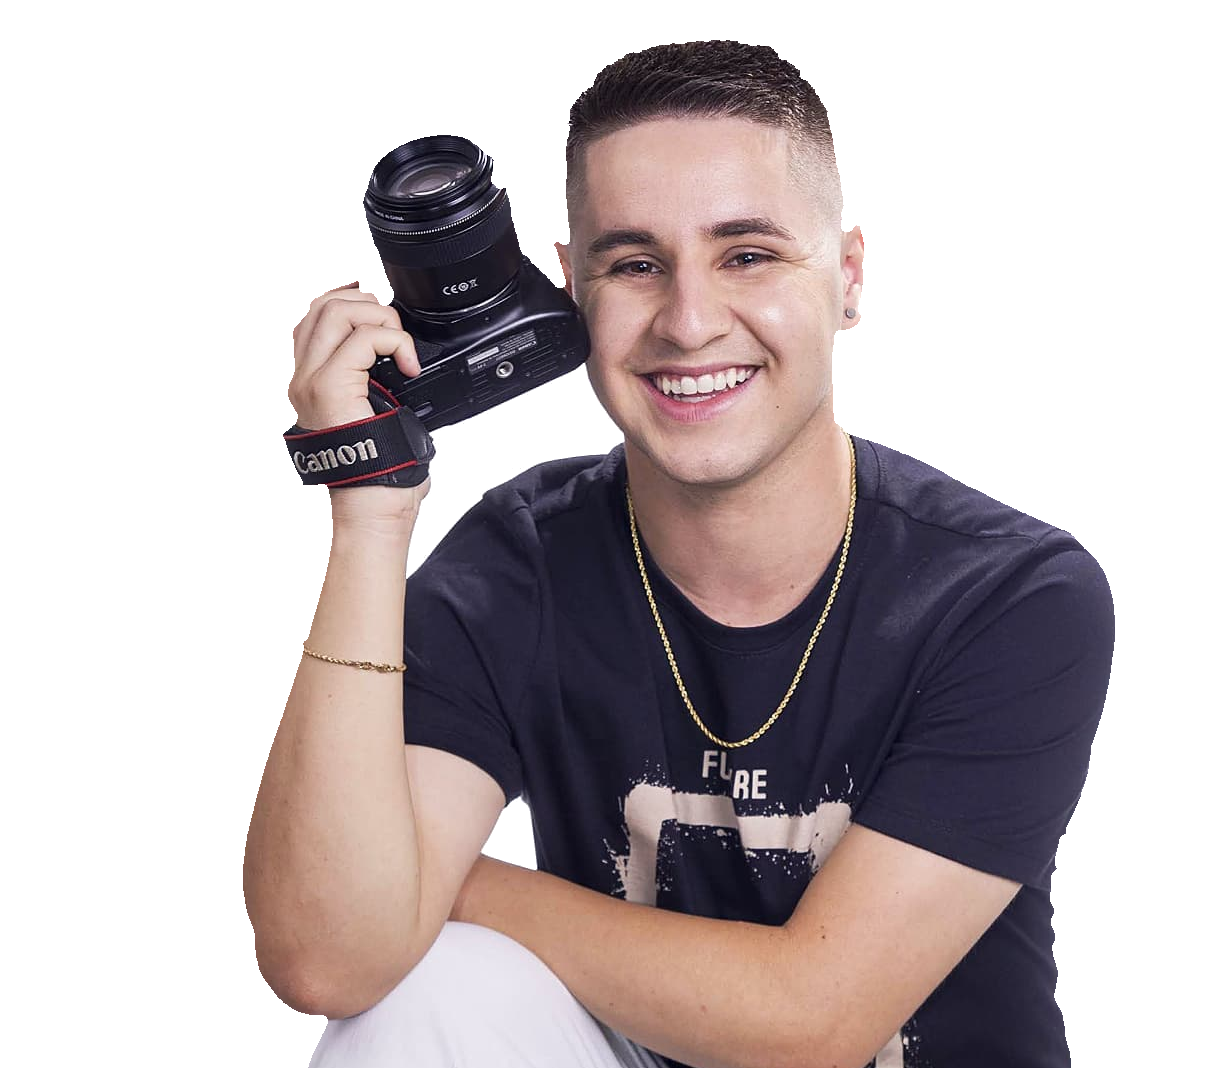
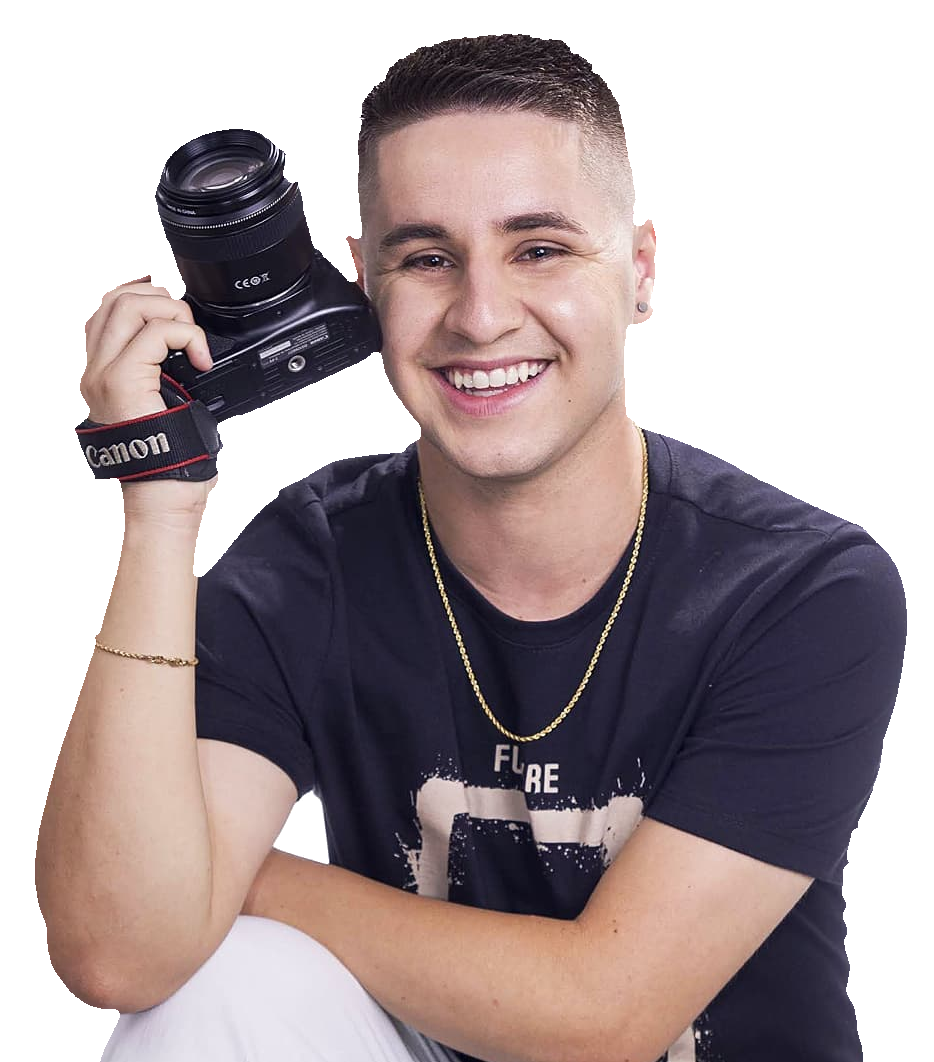
update

diff --git a/src/style.css b/src/style.css
@@ -6,9 +6,18 @@
     box-sizing: border-box;
 }
 
+:root {
+    --cor-branco:#ffffff; 
+    --cor-cinza: #333333; 
+    --cor-preto: #000000; 
+    --cor-prata: #c0c0c0; 
+    --cor-azul:  #2335D1;
+ 
+  }
+
 body{
     font-family: Arial, Helvetica, sans-serif;
-    
+    overflow-x: hidden;
 }
 
 .menu {
@@ -32,36 +41,72 @@ body{
 
 .menu-itens a {
     text-decoration: none;
-    color: #2c3e50; 
+    color: var(--cor-azul); 
     font-weight: bold;
     padding: 10px;
     border: 2px solid transparent; 
     border-radius: 5px; 
-    transition: border-color 0.3s ease, color 0.5s ease; 
+    transition: border-color 0.5s ease, color 0.5s ease; 
 }
 
 .menu-itens a:hover {
-    border-color: #2c3e50; 
+    border-color: var(--cor-azul); 
     color: #34495e; 
 }
 
 #home{
     width: 100vw;
     height: 100vh;
+    background: rgb(0,0,0);
+    background: linear-gradient(90deg, rgba(0,0,0,1) 50%, rgba(51,51,51,1) 100%);
 }
 
 .img-home {
-    display: flex; 
-    height: 100vh; 
-    max-width: 100vw; 
+    display: flex;
+    height: 100%; 
+    width: 50%; 
+    float: right;
 }
 
-.img-home img {
-    width: 50%; /* Cada imagem ocupa metade da largura do container */
-    height: auto; /* Mantém a proporção original da imagem */
-}
+.texto-home {
+    color: var(--cor-branco); 
+    display: flex;
+    flex-direction: column; 
+    justify-content: center; 
+    align-items: center;
+    height: 100vh;
+    width: 50%;
+    float: left; 
+    box-sizing: border-box; 
+    padding: 20px; 
+    text-align: center; 
+  }
+  
+  .texto-home h1{
+    font-family: 'Dancing Script', cursive;
+    margin: 10px 0; 
+    font-size: 60px;
+  }
+  .texto-home p {
 
-.img-home img:hover{
-    filter: grayscale(30%); 
-    transition: filter 0.5s ease; 
-}
+    margin: 10px 0; 
+  }
+
+  .botao-azul {
+    display: inline-block;
+    padding: 10px 20px;
+    font-size: 16px;
+    color: #fff; 
+    background-color: var(--cor-azul); 
+    border: 2px solid var(--cor-prata); 
+    border-radius: 5px; 
+    text-decoration: none; 
+    cursor: pointer;
+    transition: background-color 0.3s, color 0.3s; 
+  }
+  
+  .botao-azul:hover {
+    background-color: #fff; 
+    color: var(--cor-azul); 
+  }
+  

diff --git a/index.html b/index.html
@@ -5,6 +5,11 @@
     <meta name="viewport" content="width=device-width, initial-scale=1.0">
     <title>Landing Page</title>
     <link rel="stylesheet" href="/src/style.css">
+
+    <link rel="preconnect" href="https://fonts.googleapis.com">
+    <link rel="preconnect" href="https://fonts.gstatic.com" crossorigin>
+    <link href="https://fonts.googleapis.com/css2?family=Dancing+Script:wght@400;500;700&display=swap" rel="stylesheet">
+
 </head>
 <body>
     <section id="home">
@@ -17,9 +22,14 @@
                 </ul>
             </nav>
         </div>
+        <div class="texto-home">
+            <h1>João Fernandes Fotografia</h1>
+            <p>Capturando Momentos Únicos com Paixão e Profissionalismo.</p>
+            <a href="#" class="botao-azul">Clique aqui</a>
+        </div>
         <div class="img-home">
-            <img src="src/media/foto1.jpg" alt="foto 1">
-            <img src="src/media/foto2.jpg" alt="foto 2">
+            <img src="src/media/fotoprincipal.png" alt="foto 1">
+            
         </div>
     </section>
     <section id="sobre">
